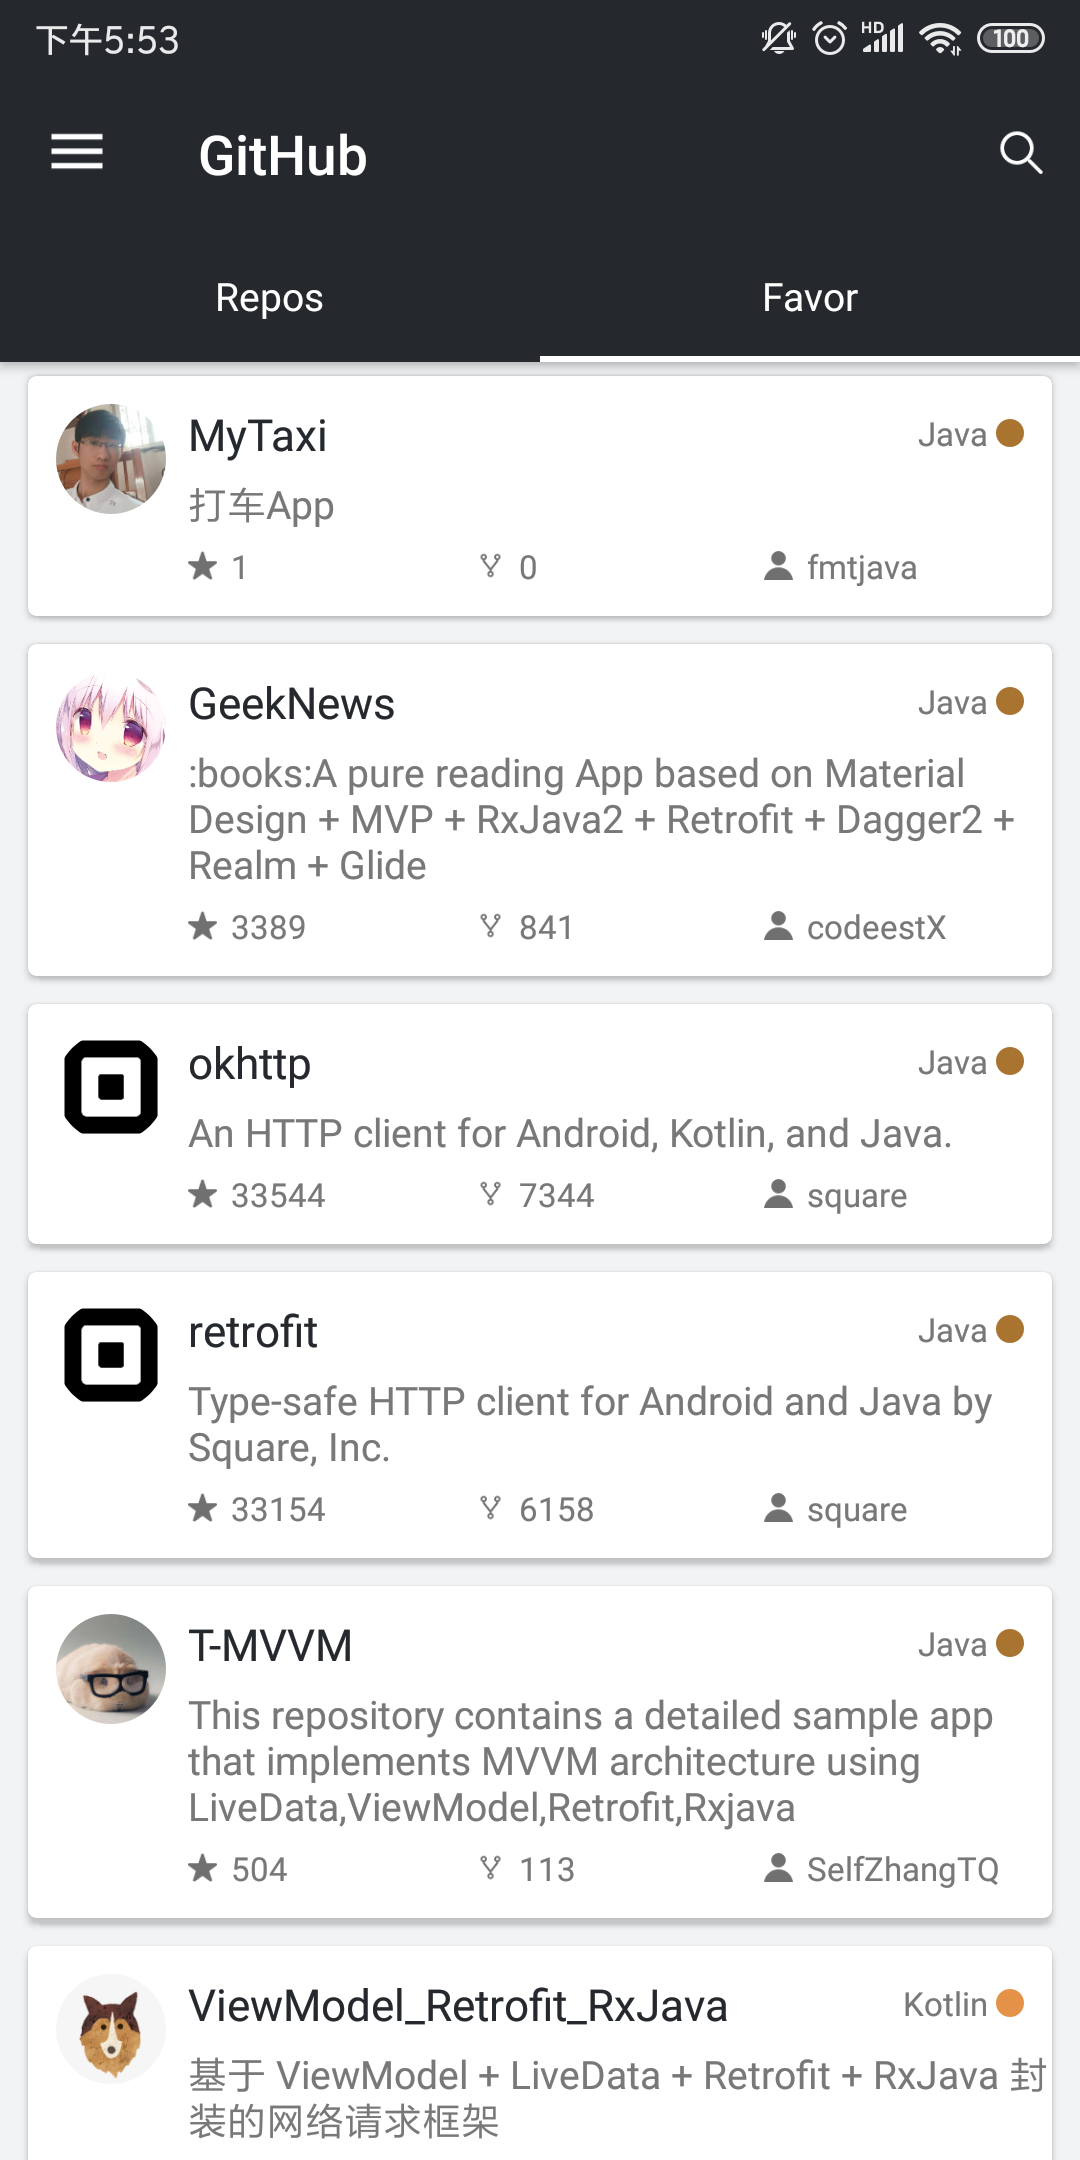
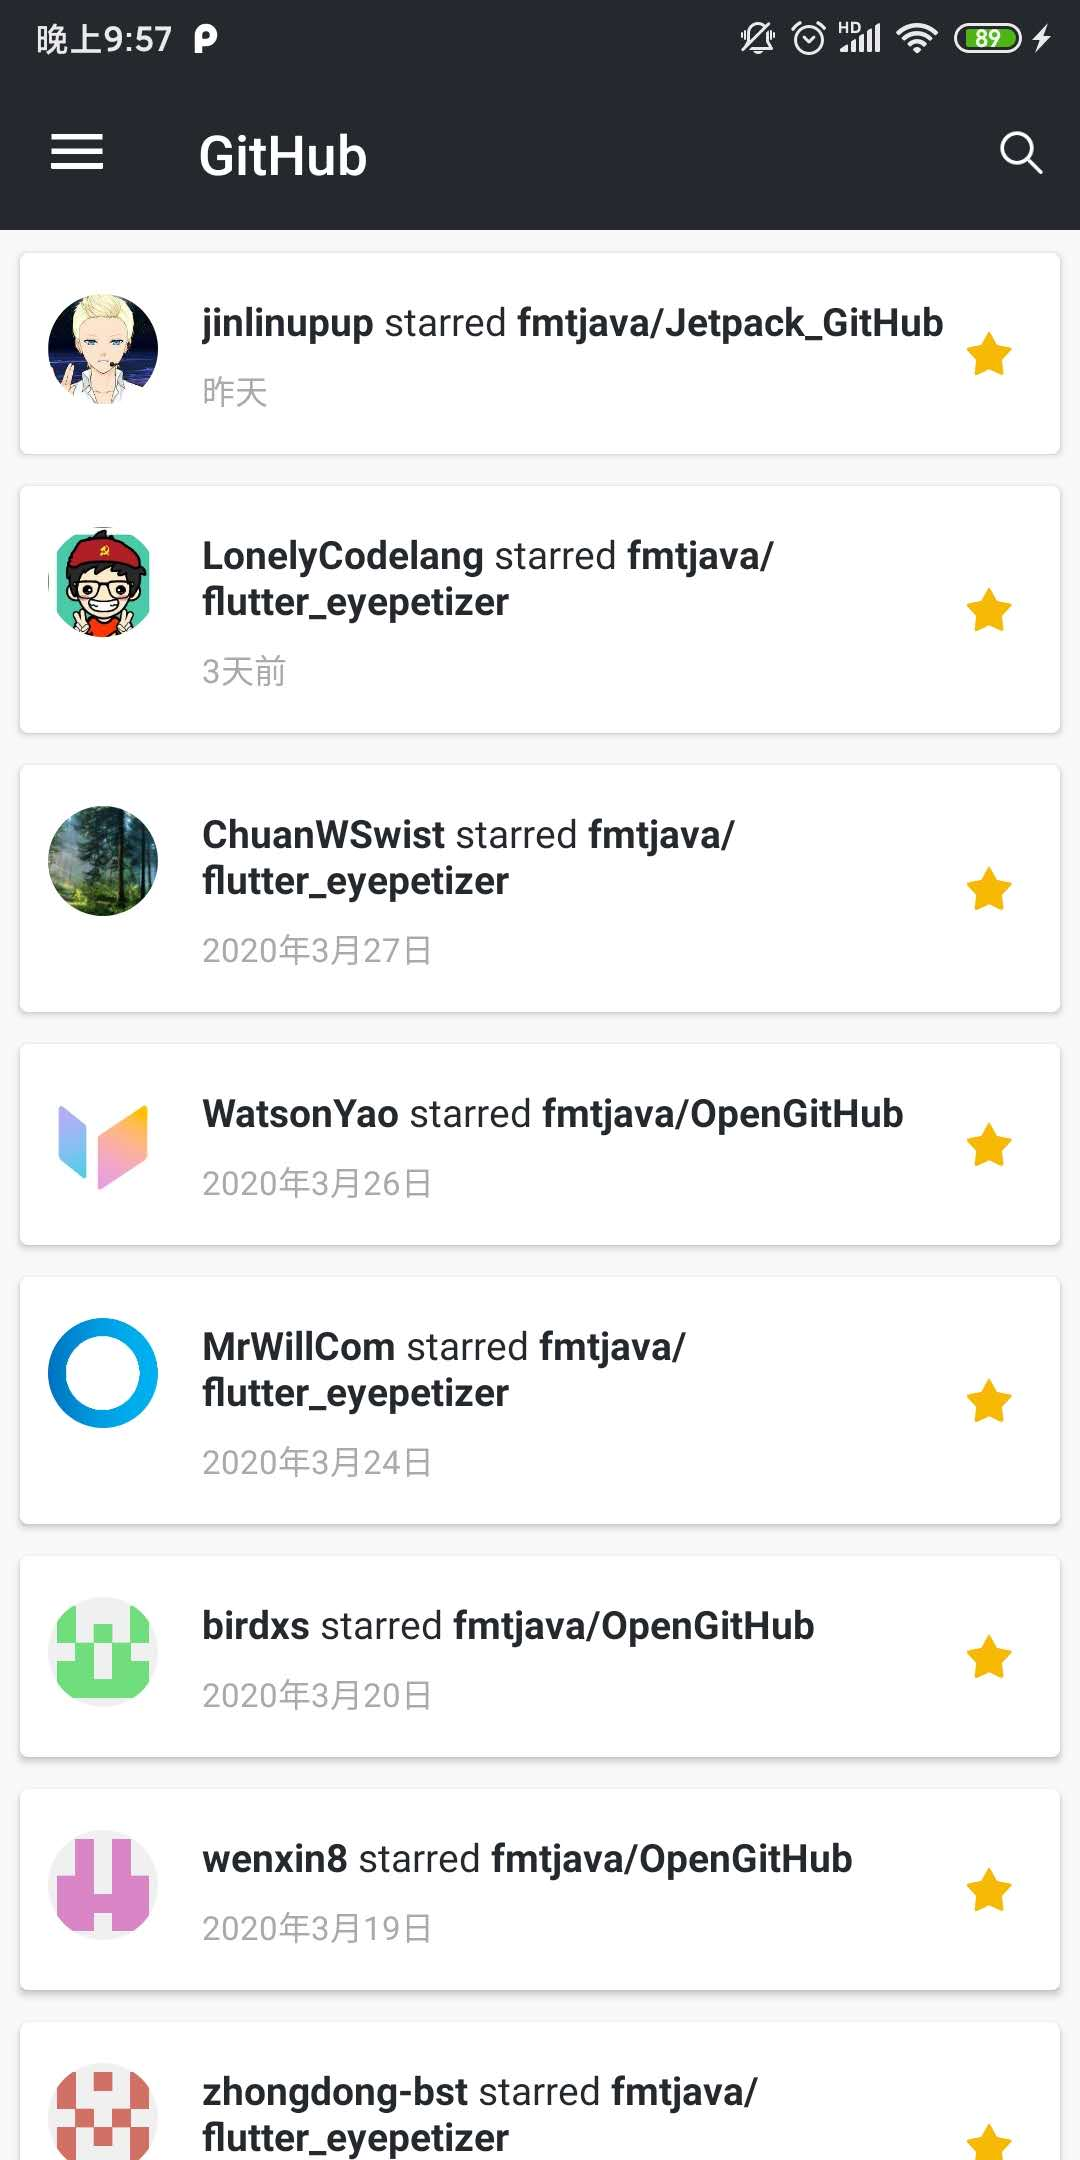
添加动态页面

diff --git a/app/src/main/java/com/fmt/github/home/fragment/HomeFragment.kt b/app/src/main/java/com/fmt/github/home/fragment/HomeFragment.kt
@@ -1,0 +1,74 @@
+package com.fmt.github.home.fragment
+
+import android.content.Intent
+import android.os.Bundle
+import androidx.recyclerview.widget.LinearLayoutManager
+import com.fmt.github.BR
+import com.fmt.github.R
+import com.fmt.github.base.fragment.BaseListMVFragment
+import com.fmt.github.base.viewmodel.BaseViewModel
+import com.fmt.github.databinding.LayoutReceivedEventBinding
+import com.fmt.github.home.model.ReceivedEventModel
+import com.fmt.github.home.viewmodel.HomeViewModel
+import com.fmt.github.repos.activity.ReposDetailActivity
+import com.github.nitrico.lastadapter.LastAdapter
+import org.koin.androidx.viewmodel.ext.android.viewModel
+import com.github.nitrico.lastadapter.Type
+import kotlinx.android.synthetic.main.common_refresh_recyclerview.*
+
+class HomeFragment : BaseListMVFragment<ReceivedEventModel>() {
+
+    private var mUserName = ""
+
+    private val mViewModel: HomeViewModel by viewModel()
+
+    override fun getViewModel(): BaseViewModel = mViewModel
+
+    companion object {
+
+        const val KEY = "key"
+        const val BASE_WEB_URL = "https://github.com/"
+
+        fun newInstance(userName: String): HomeFragment {
+            val reposFragment = HomeFragment()
+            val arguments = Bundle()
+            arguments.putString(KEY, userName)
+            reposFragment.arguments = arguments
+            return reposFragment
+        }
+    }
+
+    override fun initRecyclerView() {
+        val type = Type<LayoutReceivedEventBinding>(R.layout.layout_received_event)
+            .onClick {
+                go2ReposDetailActivity(mListData[it.adapterPosition])
+            }
+        LastAdapter(mListData, BR.item)
+            .map<ReceivedEventModel>(type)
+            .into(mRecyclerView.apply {
+                layoutManager = LinearLayoutManager(mActivity)
+            })
+    }
+
+    override fun initData() {
+        arguments?.let {
+            mUserName = it.getString(KEY)
+            initViewModelAction()
+        }
+    }
+
+    override fun getListData() {
+        mViewModel.queryReceivedEvents(mUserName, mPage).observe(this, mListObserver)
+    }
+
+    private fun go2ReposDetailActivity(receivedEventModel: ReceivedEventModel) {
+        val splitArr = receivedEventModel.repo.name.split("/")
+        with(Intent(mActivity, ReposDetailActivity::class.java)) {
+            putExtra(ReposDetailActivity.WEB_URL, "${BASE_WEB_URL}${receivedEventModel.repo.name}")
+            putExtra(ReposDetailActivity.OWNER, splitArr[0])
+            putExtra(ReposDetailActivity.REPO, splitArr[1])
+        }.run {
+            startActivity(this)
+        }
+    }
+}

diff --git a/app/src/main/java/com/fmt/github/ext/DataBindExt.kt b/app/src/main/java/com/fmt/github/ext/DataBindExt.kt
@@ -1,6 +1,10 @@
 package com.fmt.github.ext
 
+import android.graphics.Typeface
 import android.graphics.drawable.Drawable
+import android.text.Spannable
+import android.text.SpannableStringBuilder
+import android.text.style.StyleSpan
 import android.widget.ImageView
 import androidx.core.content.ContextCompat
 import androidx.databinding.BindingAdapter
@@ -8,6 +12,7 @@ import androidx.databinding.BindingConversion
 import com.bumptech.glide.Glide
 import com.fmt.github.AppContext
 import com.fmt.github.R
+import com.fmt.github.home.model.ReceivedEventModel
 import com.fmt.github.repos.model.ReposItemModel
 
 //DataBinding自定义属性
@@ -45,3 +50,41 @@ fun setReposLanguageBg(reposItemModel: ReposItemModel): Drawable? =
             else -> ContextCompat.getDrawable(AppContext, R.drawable.shape_html_circular_bg)
         }
     }
+
+@BindingConversion
+fun setReceivedEventImage(receivedEventModel: ReceivedEventModel): Drawable? =
+    when (receivedEventModel.type) {
+        "WatchEvent" -> ContextCompat.getDrawable(AppContext, R.mipmap.icon_star_yellow)
+        "ForkEvent", "PushEvent", "CreateEvent" -> ContextCompat.getDrawable(
+            AppContext,
+            R.mipmap.icon_fork_green
+        )
+        else -> null
+    }
+
+@BindingConversion
+fun setReceivedEventContent(receivedEventModel: ReceivedEventModel): CharSequence {
+    val actor = receivedEventModel.actor.display_login
+    val action = when (receivedEventModel.type) {
+        "WatchEvent" -> "starred"
+        "CreateEvent" -> "created"
+        "ForkEvent" -> "forked"
+        "PushEvent" -> "pushed"
+        else -> receivedEventModel.type
+    }
+
+    val repo = receivedEventModel.repo.name
+
+    //利用SpannableStringBuilder处理富文本
+    return SpannableStringBuilder().apply {
+        append("$actor $action $repo")
+
+        setSpan(StyleSpan(Typeface.BOLD), 0, actor.length, Spannable.SPAN_EXCLUSIVE_EXCLUSIVE)
+        setSpan(
+            StyleSpan(Typeface.BOLD),
+            actor.length + action.length + 2,
+            actor.length + action.length + repo.length + 2,
+            Spannable.SPAN_EXCLUSIVE_EXCLUSIVE
+        )
+    }
+}

diff --git a/app/src/main/java/com/fmt/github/home/activity/HomeActivity.kt b/app/src/main/java/com/fmt/github/home/activity/HomeActivity.kt
@@ -19,6 +19,7 @@ import com.fmt.github.databinding.LayoutNavHeaderBinding
 import com.fmt.github.ext.showConfirmPopup
 import com.fmt.github.ext.yes
 import com.fmt.github.home.adapter.HomePageAdapter
+import com.fmt.github.home.fragment.HomeFragment
 import com.fmt.github.home.viewmodel.HomeViewModel
 import com.fmt.github.user.activity.AboutActivity
 import com.fmt.github.user.activity.LoginActivity
@@ -57,12 +58,13 @@ class HomeActivity : BaseVMActivity(), NavigationView.OnNavigationItemSelectedLi
             //Androidx的协程支持LifecycleScope、ViewModelScope
             mUser = mUserDao.getAll()[0]
             initHeaderLayout()
-            initViewPager()
+            initRecyclerView()
         }
     }
 
     private fun initHeaderLayout() {
-        val dataBind = LayoutNavHeaderBinding.inflate(LayoutInflater.from(this), mNavigationView,false)
+        val dataBind =
+            LayoutNavHeaderBinding.inflate(LayoutInflater.from(this), mNavigationView, false)
         dataBind.user = mUser
         mNavigationView.addHeaderView(dataBind.root)
     }
@@ -84,17 +86,14 @@ class HomeActivity : BaseVMActivity(), NavigationView.OnNavigationItemSelectedLi
             }
     }
 
-    private fun initViewPager() {
-        val fragmentList = mutableListOf<Fragment>().apply {
-            add(UserReposFragment.newInstance(mUser.login))
-            add(UserReposFragment.newInstance(mUser.login, true))
-        }
-        val homePageAdapter = HomePageAdapter(
-            supportFragmentManager, fragmentList,
-            FragmentStatePagerAdapter.BEHAVIOR_RESUME_ONLY_CURRENT_FRAGMENT
+    private fun initRecyclerView() {
+        val beginTransaction = supportFragmentManager.beginTransaction()
+        beginTransaction.replace(
+            R.id.frameLayout,
+            HomeFragment.newInstance(mUser.login),
+            "Home_Fragment"
         )
-        mViewPager.adapter = homePageAdapter
-        mTabLayout.setupWithViewPager(mViewPager)
+        beginTransaction.commit()
     }
 
     override fun onNavigationItemSelected(menuItem: MenuItem): Boolean {

diff --git a/app/src/main/java/com/fmt/github/user/repository/UserRepository.kt b/app/src/main/java/com/fmt/github/user/repository/UserRepository.kt
@@ -1,5 +1,6 @@
 package com.fmt.github.user.repository
 
+import com.fmt.github.home.model.ReceivedEventModel
 import com.fmt.github.repos.model.ReposItemModel
 import com.fmt.github.user.api.UserApi
 import com.fmt.github.user.model.db.User
@@ -8,6 +9,8 @@ import com.fmt.github.user.model.AuthorizationReqModel
 import com.fmt.github.user.model.UserInfoModel
 import com.fmt.github.user.model.UserListModel
 import com.fmt.github.user.model.UserModel
+import okhttp3.ResponseBody
+import retrofit2.Response
 
 class UserRepository(private val mUserApi: UserApi, private val mUserDao: UserDao) {
 
@@ -32,6 +35,9 @@ class UserRepository(private val mUserApi: UserApi, private val mUserDao: UserDa
 
     suspend fun getStarredRepos(user: String, page: Int): List<ReposItemModel> =
         mUserApi.getStarredRepos(user, page)
+
+    suspend fun queryReceivedEvents(user: String, page: Int): List<ReceivedEventModel> =
+        mUserApi.queryReceivedEvents(user, page)
 
     suspend fun saveLocalUser(user: User) = mUserDao.insertAll(user)
 

diff --git a/app/src/main/java/com/fmt/github/user/api/UserApi.kt b/app/src/main/java/com/fmt/github/user/api/UserApi.kt
@@ -1,6 +1,7 @@
 package com.fmt.github.user.api
 
 import com.fmt.github.config.Configs
+import com.fmt.github.home.model.ReceivedEventModel
 import com.fmt.github.repos.model.ReposItemModel
 import com.fmt.github.user.model.*
 import okhttp3.ResponseBody
@@ -31,4 +32,10 @@ interface UserApi {
 
     @GET("users/{user}/starred")
     suspend fun getStarredRepos(@Path("user") user: String, @Query("page") page: Int, @Query("per_page") per_page: Int = Configs.PAGE_SIZE): List<ReposItemModel>
+
+    @GET("users/{username}/received_events?")
+    suspend fun queryReceivedEvents(@Path("username") username: String,
+                                    @Query("page") page: Int,
+                                    @Query("per_page") perPage: Int = Configs.PAGE_SIZE): List<ReceivedEventModel>
+
 }

diff --git a/app/src/main/java/com/fmt/github/home/viewmodel/HomeViewModel.kt b/app/src/main/java/com/fmt/github/home/viewmodel/HomeViewModel.kt
@@ -2,9 +2,14 @@ package com.fmt.github.home.viewmodel
 
 import androidx.lifecycle.LiveData
 import com.fmt.github.base.viewmodel.BaseViewModel
+import com.fmt.github.home.model.ReceivedEventModel
 import com.fmt.github.user.repository.UserRepository
 
 class HomeViewModel(private val mUserRepository: UserRepository) : BaseViewModel() {
+
+    fun queryReceivedEvents(user: String, page: Int): LiveData<List<ReceivedEventModel>> = emit {
+        mUserRepository.queryReceivedEvents(user, page)
+    }
 
     fun deleteAuthorization(id: Int): LiveData<Boolean> = emit {
         mUserRepository.deleteAuthorization(id).code() == 204

diff --git a/app/src/main/java/com/fmt/github/utils/TimeConverter.kt b/app/src/main/java/com/fmt/github/utils/TimeConverter.kt
@@ -1,0 +1,20 @@
+package com.fmt.github.utils
+
+import android.text.format.DateUtils
+import java.text.SimpleDateFormat
+import java.util.*
+
+object TimeConverter {
+
+    fun tramsTimeAgo(time: String): String =
+            transTimeStamp(time).let {
+                DateUtils.getRelativeTimeSpanString(it).toString()
+            }
+
+    private fun transTimeStamp(time: String): Long =
+            SimpleDateFormat("yyyy-MM-dd'T'HH:mm:ss'Z'", Locale.US)
+                    .let {
+                        it.timeZone = TimeZone.getTimeZone("GMT+1")
+                        it.parse(time).time
+                    }
+}

diff --git a/app/src/main/java/com/fmt/github/home/model/ReceivedEventModel.kt b/app/src/main/java/com/fmt/github/home/model/ReceivedEventModel.kt
@@ -1,0 +1,7 @@
+package com.fmt.github.home.model
+
+data class ReceivedEventModel(val id: String,val type:String,val actor: Actor,val repo:Repo,val created_at:String)
+
+data class Actor(val login:String,val display_login : String,val avatar_url: String)
+
+data class Repo(val name:String)
